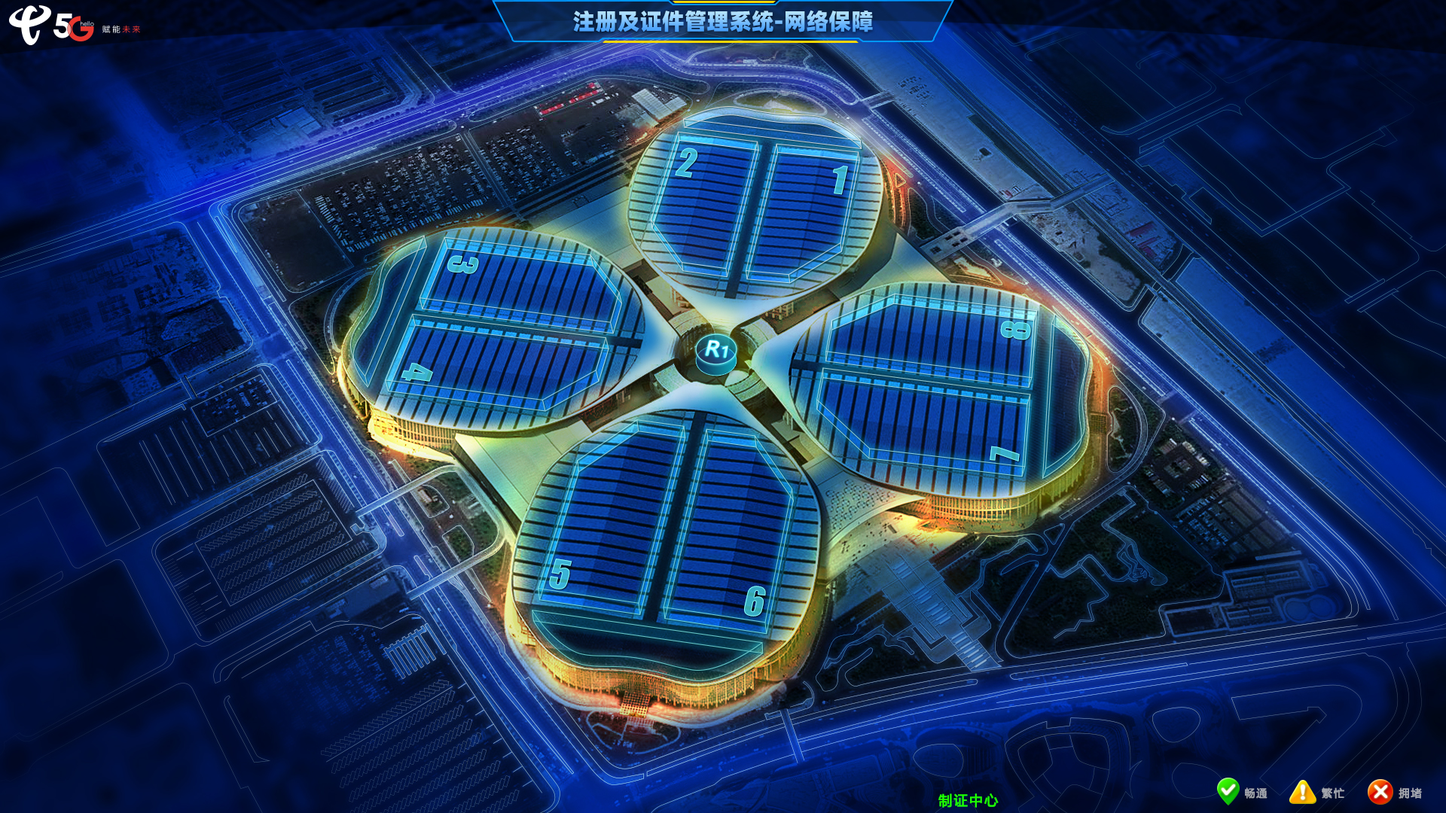
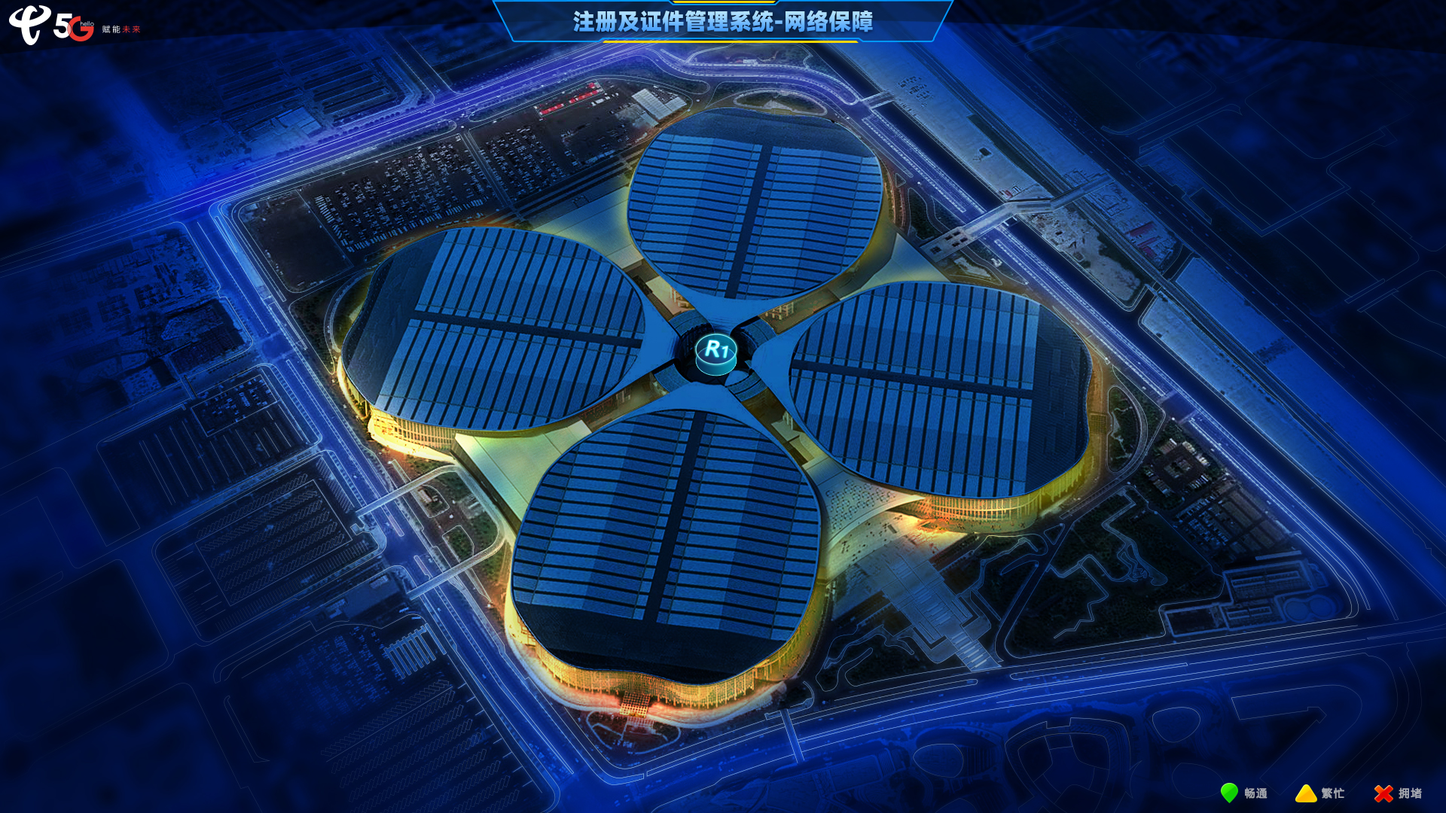
动画修改

diff --git a/static/css/main.css b/static/css/main.css
@@ -190,13 +190,13 @@ input{
     background-size: 100% 100%;
     position: relative;
 }
-.line{
+/* .line{
     background-image: url(../images/jbh/7-110.gif);
     width: 100%;
     height: 100%;
     z-index: 99999;
     position: relative;
-}
+} */
 .mask{
     width: 100%;
     height: 100%;
